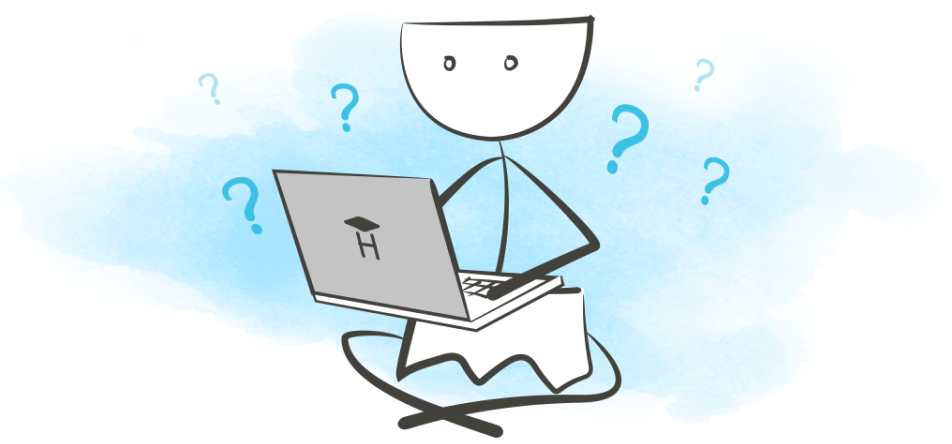
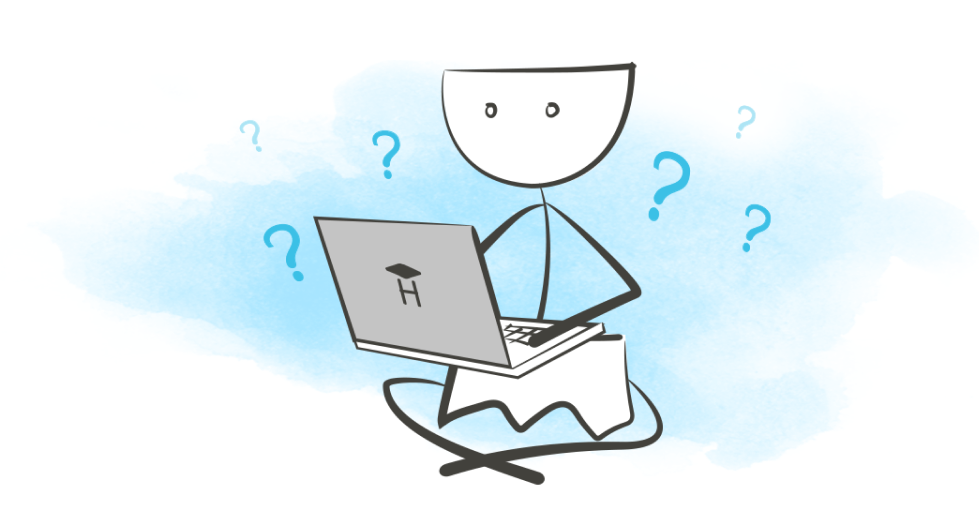
test adjustments #15

diff --git a/src/styles/style.css b/src/styles/style.css
@@ -82,8 +82,7 @@ p {
   display: flex;
   justify-content: center;
   width: 100vw;
-  padding-top: 100px;
-  padding-bottom: 100px;
+  overflow: hidden;
 }
 
 main {
@@ -109,13 +108,17 @@ section {
   content: '';
   position: absolute;
   top: 0;
-  left: 3%;
+  left: 0;
   background-image: url("../assets/images/background.png");
   background-repeat: no-repeat;
   background-size: cover;
   opacity: 0.9;
-  width: 100%;
-  height: 100vw;
+  width: 90%;    
+  height: 100%;
+  margin-left: 55px;
+  margin-right: 55px;
+  /* width: 100vw;
+  height: 915px; */
 }
 
 .header > * {
@@ -124,8 +127,8 @@ section {
 
 .header-image {
   position: absolute;
-  top: 9%;
-  right: -7%;
+  top: -55px;
+  right: -270px;
 }
 
 .header-columns {
@@ -450,4 +453,6 @@ section {
 
 .relative {
   position: relative;
+  margin-top: 100px;
+  margin-bottom: 100px;
 }

diff --git a/src/index.html b/src/index.html
@@ -10,9 +10,9 @@
 </head>
 <body class="m-0">
     <header class="header light-bg">
-        <img class="header-image" src="./assets/images/header-image.png" alt="Header image" height="525px">
+        
         <div class="container relative">
-            
+            <img class="header-image" src="./assets/images/header-image.png" alt="Header image" height="525px">
             <h1 class="m-0 primary-font">
                 Когнитивные<br> искажения<br>
             </h1>
